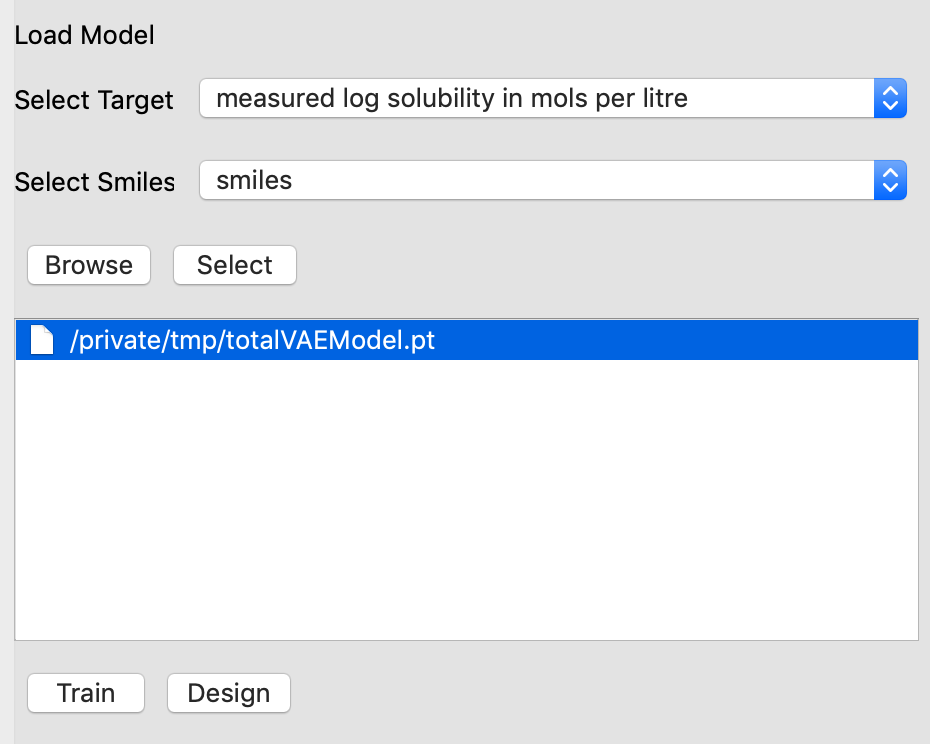
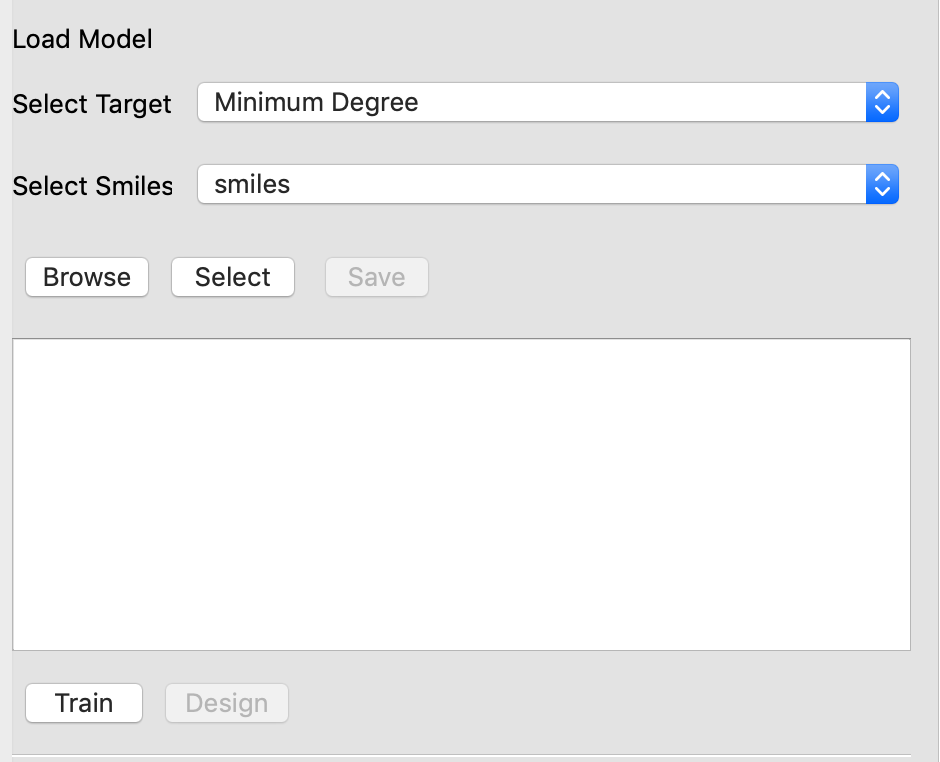
Update manual

diff --git a/docs/index.html b/docs/index.html
@@ -453,6 +453,7 @@ pre[data-line] .line-highlight[data-end]:after {
 <li>Train: Click to start training the VAE model with selected trainset. When training is finished, the trained model <strong><a href="http://totalVAEModel.pt">totalVAEModel.pt</a></strong> is saved to directory <code>/tmp</code>.</li>
 <li>Browse: Click to browse and add a model file to the model list.</li>
 <li>Select(or double click): Click to select the highlighted model file in the current model list.</li>
+<li>Save: Click to browse and save the trained model.</li>
 <li>Design: Start designing and plot molecules with top target value according to the loaded VAE model.</li>
 </ul>
 

diff --git a/docs/index.md b/docs/index.md
@@ -184,4 +184,5 @@ Browse and Select Model:
 + Train: Click to start training the VAE model with selected trainset. When training is finished, the trained model **totalVAEModel.pt** is saved to directory `/tmp`.
 + Browse: Click to browse and add a model file to the model list.
 + Select(or double click): Click to select the highlighted model file in the current model list.
++ Save: Click to browse and save the trained model.
 + Design: Start designing and plot molecules with top target value according to the loaded VAE model. 
